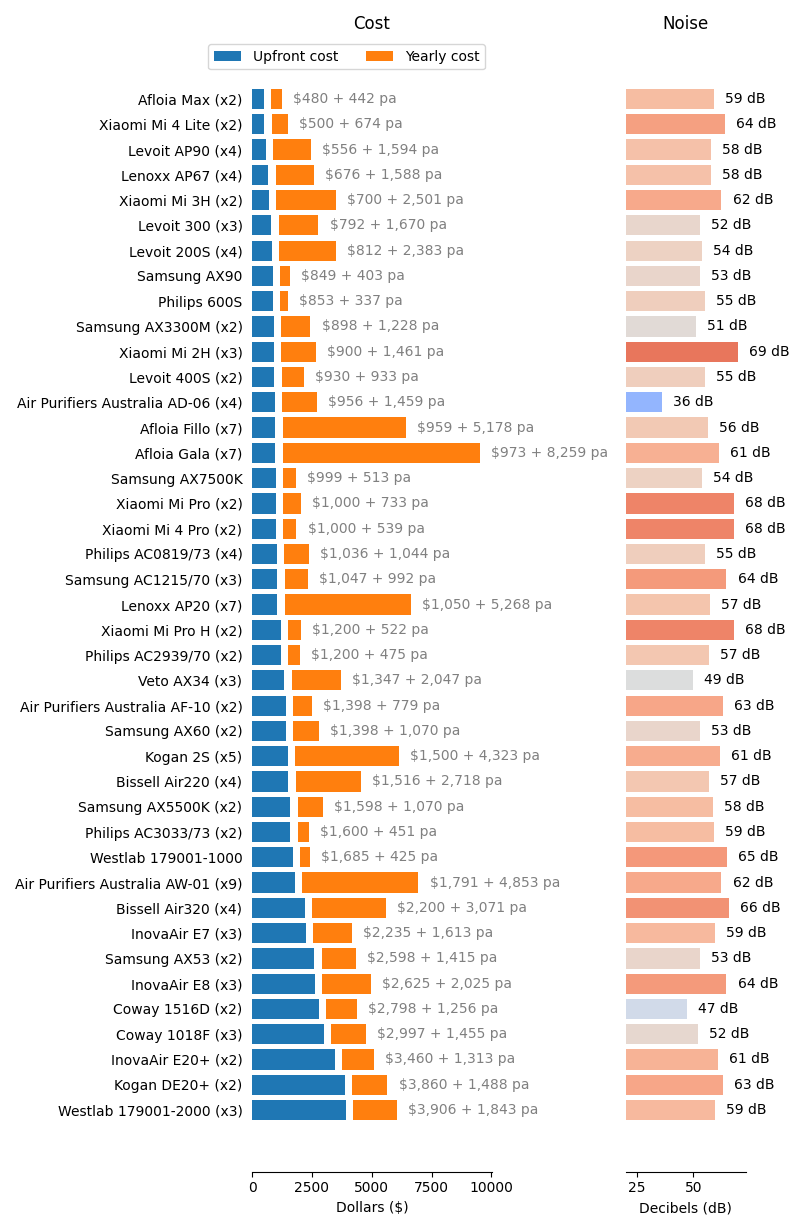
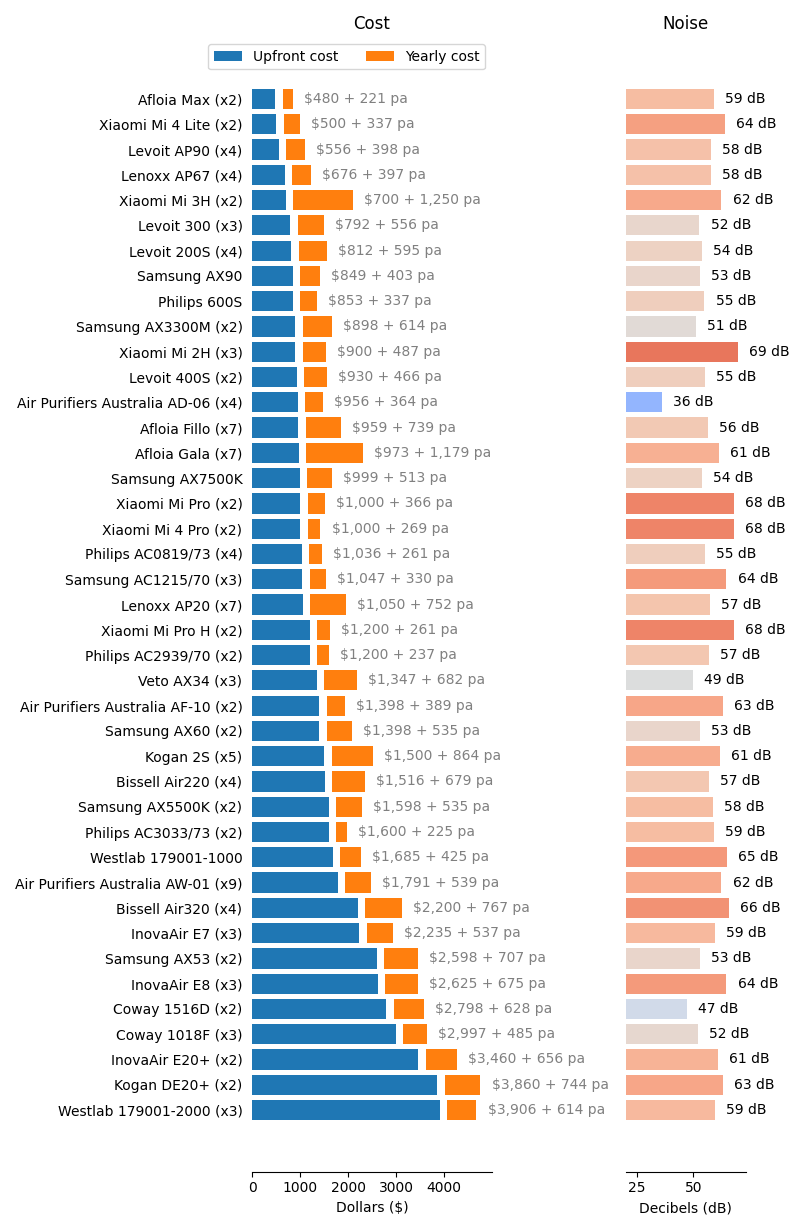
Quick push

diff --git a/aircleaning/analyse.py b/aircleaning/analyse.py
@@ -33,7 +33,7 @@ def cost_analysis(data=None, /, volume='medium', quality='good'):
     nunits = (1 / performance).apply(math.ceil)
     data['cost'] *= nunits
     for col in ('power', 'filterchanges'):
-        data[col] = data[col] * nunits / performance
+        data[col] = data[col] / performance
     data['noise'] = 10 * np.log10(10 ** (data['noise'] / 10) * nunits)
     filtercost = data['filtercost'] * data['filterchanges']
     data = data.drop(['filterchanges', 'filtercost'], axis=1)
